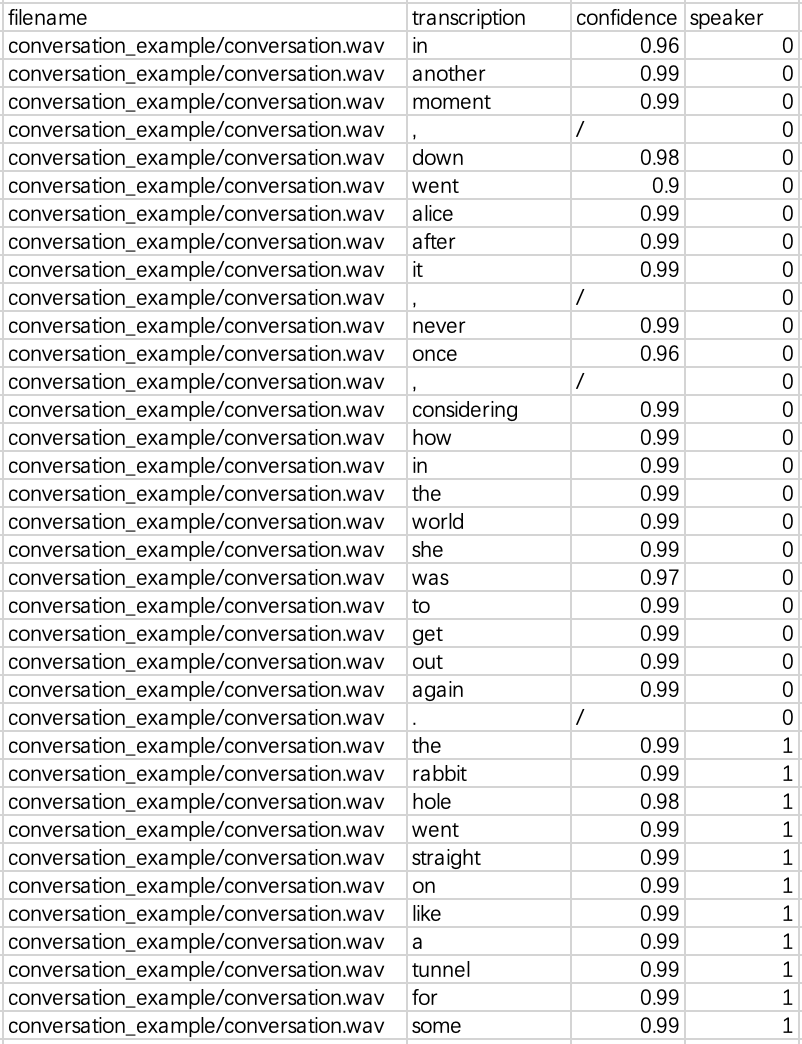
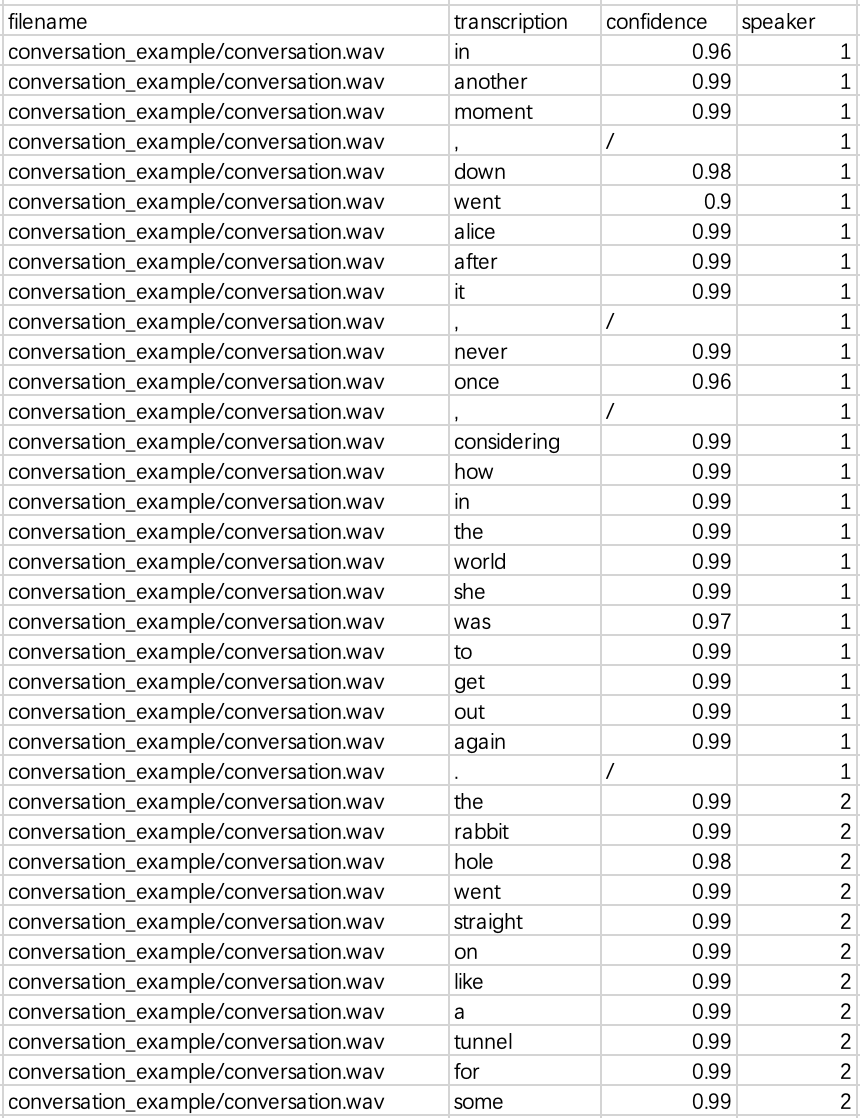
update

diff --git a/str_nogui.py b/str_nogui.py
@@ -46,7 +46,7 @@ config_entries = {'API.token':['token', 'save_check'],
                   'folders':['input_folder', 'output_folder'],
                   'output_format': ['format'],
                   'concatenation':['concatenate_input', 'csv_file'],
-                  'transcribe.config':['diarization', 'punctuation', 'remove_disfluencies', 'speaker_channels_count', 'language', 'delete_after_seconds']
+                  'transcribe.config':['diarization', 'punctuation', 'remove_disfluencies', 'speaker_channels_count', 'language']
                  }
 
 # Check if all config.ini values are available and valid
@@ -135,18 +135,18 @@ def config_check(config):
         console_message += 'Error: Speaker channels count should be either None or a positive number.\n'
         valid = False
 
-    try:
-        # check the delete after seconds - it needs to be a positive integer or None
-        delete_check = config['transcribe.config']['delete_after_seconds']
-        if not delete_check.isnumeric() and delete_check != 'None':
-            console_message += 'Error: Delete after seconds should be either None or a positive number.\n'
-            valid = False
-        if delete_check.isnumeric() and int(delete_check) <= 0:
-            console_message += "Error: Delete after seconds should be a positive integer.\n"
-            valid = False
-    except Exception:
-        console_message += 'Error: Delete after seconds should be either None or a positive number.\n'
-        valid = False
+    # try:
+    #     # check the delete after seconds - it needs to be a positive integer or None
+    #     delete_check = config['transcribe.config']['delete_after_seconds']
+    #     if not delete_check.isnumeric() and delete_check != 'None':
+    #         console_message += 'Error: Delete after seconds should be either None or a positive number.\n'
+    #         valid = False
+    #     if delete_check.isnumeric() and int(delete_check) <= 0:
+    #         console_message += "Error: Delete after seconds should be a positive integer.\n"
+    #         valid = False
+    # except Exception:
+    #     console_message += 'Error: Delete after seconds should be either None or a positive number.\n'
+    #     valid = False
 
     # display the error message on GUI if not valid
     if valid:
@@ -238,7 +238,7 @@ def transcribe_speech(audiofile, client_api, message_label):
     # speaker channels count is a positive integer or None
     speaker_channels_count = None if config['transcribe.config']['speaker_channels_count'] == 'None' else int(config['transcribe.config']['speaker_channels_count'])
     # delete after seconds is a positive integer or None
-    delete_after_seconds = None if config['transcribe.config']['delete_after_seconds'] == 'None' else int(config['transcribe.config']['delete_after_seconds'])
+    #delete_after_seconds = None if config['transcribe.config']['delete_after_seconds'] == 'None' else int(config['transcribe.config']['delete_after_seconds'])
     if config['transcribe.config']['language'] == 'en':
         job = client_api.submit_job_local_file(
             filename = audiofile,  # file name
@@ -247,7 +247,7 @@ def transcribe_speech(audiofile, client_api, message_label):
             remove_disfluencies = False if CHAT_mode else config.getboolean('transcribe.config', 'remove_disfluencies'),  # removes speech disfluencies ("uh", "um"). Only avalable for English, Spanish, French languages
             speaker_channels_count = None if CHAT_mode else speaker_channels_count,  # Number of audio channels. Only avalable for English, Spanish, French languages
             language = config['transcribe.config']['language'],  # language of the audio file(s)
-            delete_after_seconds = delete_after_seconds,  # Amount of time after job completion when job is auto-deleted. Default (after 30 days) is None.
+            #delete_after_seconds = delete_after_seconds,  # Amount of time after job completion when job is auto-deleted. Default (after 30 days) is None.
             #verbatim = True,  # transcribe every syllable
             #remove_atmospherics = True,  # remove atmospherics (e.g. <laugh>)
             #filter_profanity = True,  # filter profanities
@@ -259,7 +259,7 @@ def transcribe_speech(audiofile, client_api, message_label):
             filename = audiofile,  # file name
             skip_diarization = False if CHAT_mode else not config.getboolean('transcribe.config', 'diarization'),  # needed for conversations. Tries to match audio with speakers
             language = config['transcribe.config']['language'],  # language of the audio file(s)
-            delete_after_seconds = delete_after_seconds,  # Amount of time after job completion when job is auto-deleted. Default (after 30 days) is None.
+            #delete_after_seconds = delete_after_seconds,  # Amount of time after job completion when job is auto-deleted. Default (after 30 days) is None.
             #verbatim = True,  # transcribe every syllable
             #remove_atmospherics = False,  # remove atmospherics (e.g. <laugh>)
             #filter_profanity = False,  # filter profanities
@@ -363,12 +363,16 @@ def save_transcription(output_data, output_file_name_def, csv_file, CHAT_output)
     footer_text = "\n@End"
     
     if csv_file:
+        if CHAT_output:
+            if 'speaker' in output_data[0]:
+                for m in range(len(output_data)):
+                    output_data[m]['speaker'] = str(int(output_data[m]['speaker']) + 1)
         keys_list = output_data[0].keys()
         csv_filename = output_file_name_def.rsplit('.')[0] + '.csv'
         with open(csv_filename,'w', newline='', encoding = 'utf-8-sig') as outfile:
             csv_writer = csv.DictWriter(outfile, keys_list)
             csv_writer.writeheader()
-            csv_writer.writerows(output_data)       
+            csv_writer.writerows(output_data)        
         
     if CHAT_output:
         text_filename = output_file_name_def
@@ -392,7 +396,10 @@ def save_transcription(output_data, output_file_name_def, csv_file, CHAT_output)
                 for result_word in output_data:
                     # switch speaker
                     if result_word['speaker'] != current_speaker:
-                        outtextfile.write(''.join(('\nSP', str(int(result_word['speaker']) + 1), ':\t', result_word['transcription'])))
+                        if csv_file:
+                            outtextfile.write(''.join(('\nSP', str(int(result_word['speaker'])), ':\t', result_word['transcription'])))
+                        else:
+                            outtextfile.write(''.join(('\nSP', str(int(result_word['speaker']) + 1), ':\t', result_word['transcription'])))
                         current_speaker = result_word['speaker']
                     else:
                         # no white space before a punctuation
@@ -533,7 +540,7 @@ if __name__ == '__main__':
     # Program will abort if errors are found
     config_message, config_valid = config_check(config)
     print(config_message)
-
+    
     #run the transcription only when every entry is valid
     if not config_valid:
         sys.exit()

diff --git a/str.py b/str.py
@@ -367,6 +367,10 @@ def save_transcription(output_data, output_file_name_def, csv_file, CHAT_output)
     footer_text = "\n@End"
     
     if csv_file:
+        if CHAT_output:
+            if 'speaker' in output_data[0]:
+                for m in range(len(output_data)):
+                    output_data[m]['speaker'] = str(int(output_data[m]['speaker']) + 1)
         keys_list = output_data[0].keys()
         csv_filename = output_file_name_def.rsplit('.')[0] + '.csv'
         with open(csv_filename,'w', newline='', encoding = 'utf-8-sig') as outfile:
@@ -396,7 +400,10 @@ def save_transcription(output_data, output_file_name_def, csv_file, CHAT_output)
                 for result_word in output_data:
                     # switch speaker
                     if result_word['speaker'] != current_speaker:
-                        outtextfile.write(''.join(('\nSP', str(int(result_word['speaker']) + 1), ':\t', result_word['transcription'])))
+                        if csv_file:
+                            outtextfile.write(''.join(('\nSP', str(int(result_word['speaker'])), ':\t', result_word['transcription'])))
+                        else:
+                            outtextfile.write(''.join(('\nSP', str(int(result_word['speaker']) + 1), ':\t', result_word['transcription'])))
                         current_speaker = result_word['speaker']
                     else:
                         # no white space before a punctuation

diff --git a/README.md b/README.md
@@ -21,7 +21,7 @@ Windows tutorial coming soon.
 
 2. Python >= 3.8. We recommend installing [miniconda](https://docs.conda.io/projects/miniconda/en/latest/) if Python it is not installed on your computer.
 
-3. Familiarity with using the command line: Check [command line tools tutorial](https://www.codecademy.com/article/command-line-commands) for instructions.
+3. Familiarity with using the command line: Check [command line tools tutorial](https://tutorials.codebar.io/command-line/introduction/tutorial.html) for instructions.
 
 4. Audio file formats supported by STR: .wav, .mp3, .ogg, .opus, .flac, and .webm.
 
